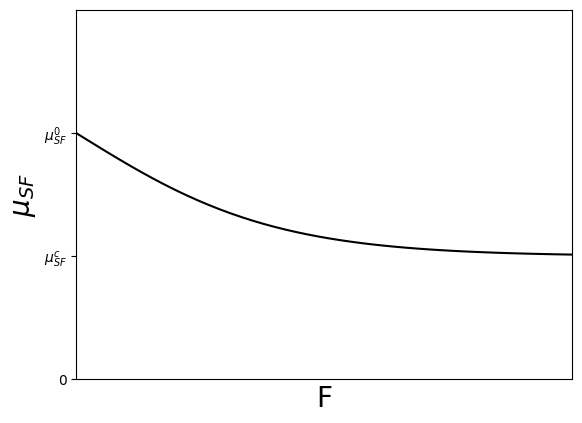
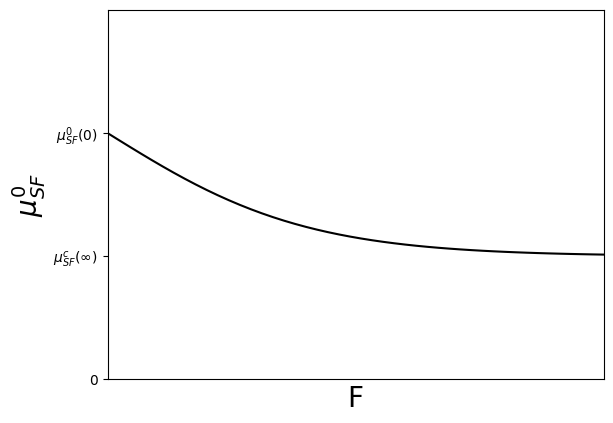
1004n

diff --git a/SF_cpoten.py b/SF_cpoten.py
@@ -13,10 +13,10 @@ ax.axes.xaxis.set_ticks([])
 ax.axes.yaxis.set_ticks([])
 
 ax.set_yticks([0,1,2])
-ax.set_yticklabels(['0','$\mu_{SF} ^{c}$','$\mu_{SF} ^{0}$'])
+ax.set_yticklabels(['0','$\mu_{SF} ^{c}(\infty)$','$\mu_{SF} ^{0}(0)$'])
 
 plt.xlabel('F', fontsize=20)
-plt.ylabel('$\mu_{SF}$', fontsize=20)
+plt.ylabel('$\mu_{SF} ^{0}$', fontsize=20)
 ax.plot(x,y,color='black')
 
 plt.show()
